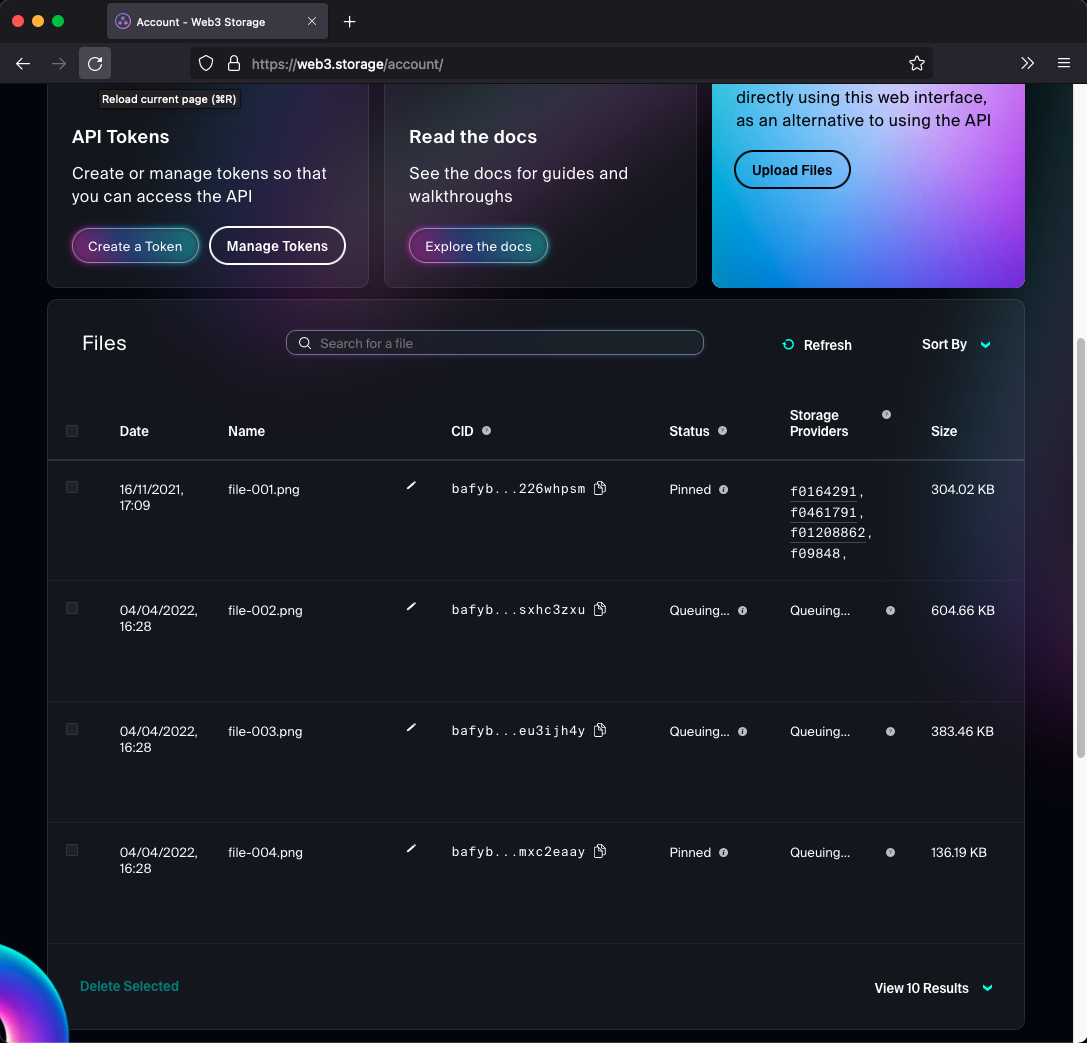
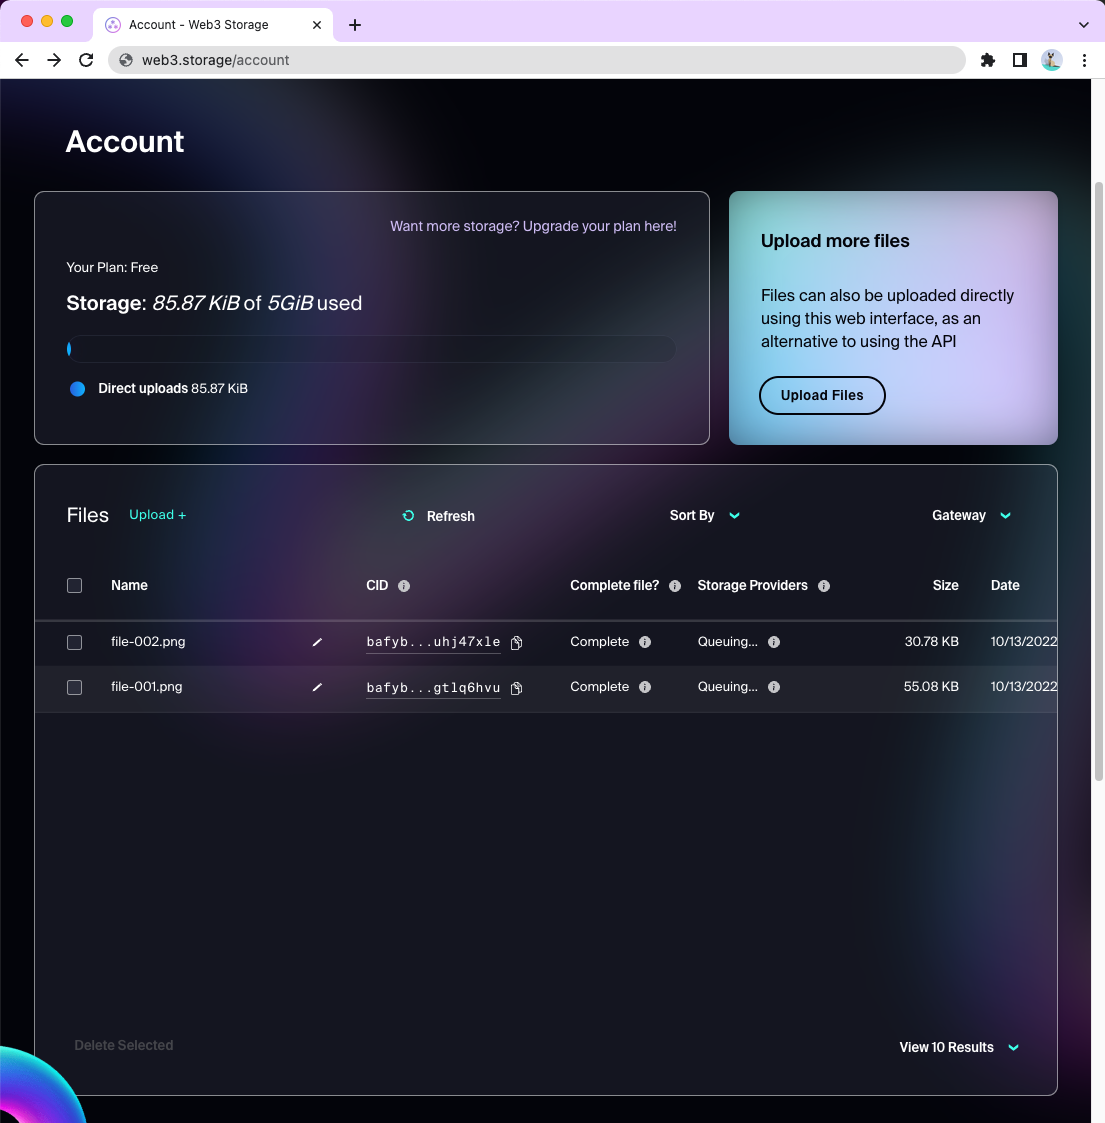
feat: status docs (#1937)

diff --git a/packages/website/pages/docs/how-tos/get-status.md b/packages/website/pages/docs/how-tos/get-status.md
@@ -13,35 +13,29 @@ On the [Account page](https://web3.storage/account) of the web3.storage site, yo
 
 <Img src={ImgPageFiles} alt="Screenshot of web3.storage account page, showing a table of uploaded files" />
 
-The table on the account page has two columns related to the current status of the data storage process, [Status](#status) and [Storage Providers](#storage-providers).
+The table on the account page has two columns related to the current status of the data storage process, [Complete file?](#complete) and [Storage Providers](#storage-providers).
 
 The information in the account page file list is also available using the [JavaScript client's `status` method][client-js-check], via the [HTTP API][client-http] by sending a `GET` request to the `/status/{cid}` endpoint, or using the `w3 status <cid>` command on the [CLI](https://github.com/web3-storage/web3.storage/tree/main/packages/w3#readme).
 
-## Status
+## Complete file?
 
-When you upload data to web3.storage, it is ["pinned"][ipfs-docs-pinning] to several nodes in an [IPFS cluster][ipfs-cluster]. An IPFS cluster is a group of machines that coordinate to provide content-addressed data to the [IPFS](https://ipfs.io) peer-to-peer network.
+When you upload data to Web3.Storage, there might be some situations when an upload did not successfully complete. If you intended to upload a file, the **Complete file?** column shows whether we received a complete graph of data. There are four possible values for the column: `Complete`, `Queuing`, `Pinned`, and `Failed`.
 
-The **Status** column shows the status of the pinning operation. There are three possible values for the Status column: `Queuing`, `Pinned`, and `Failed`.
+A `Complete` status means that we have received a complete graph of data.
 
-The `Queuing` status indicates that a request to pin the data has been submitted to a cluster node, and the node has added the request to a queue for pinning. Depending on how busy the cluster is, an upload may stay in the `Queuing` state for some time before transitioning to `Pinned` or `Failed`.
+A `Pinned` status is a legacy status from our previous architecture. It is equivalent to the `Complete` status.
 
-Note that you can [retrieve your data using IPFS][howto-retrieve] even while the status is `Queuing`. You can verify this by retrieving your data from an HTTP gateway. If you've uploaded a directory, try retrieving a sample of the files within the directory.
+The `Queuing` status indicates that the completeness of the graph of data is still being validated.
 
-A `Pinned` status means that the cluster has successfully pinned the data.
-
-A `Failed` status indicates that an operation failed while attempting to pin the data. Note that a `Failed` status may be temporary, as the cluster will continually retry `Failed` pins in the background and will update the status to `Pinned` if a retry attempt is successful.
-
-In addition to automatic retries by the cluster, a `Failed` pin will change to `Pinned` if the same data is uploaded successfully in a subsequent request. As long as the CID is the same for both uploads, the original upload's status will be marked as `Pinned` after a small delay.
+A `Failed` status indicates that the graph of data is incomplete. For older uploads, it can also mean an operation failed while our infrastructure was attempting to pin the data. A `Failed` pin will change to `Pinned` if the same data is uploaded successfully in a subsequent request. As long as the CID is the same for both uploads, the original upload's status will be marked as `Pinned` after a small delay.
 
 There are several reasons why an upload may end up in the `Failed` state.
 
-If you are able to [retrieve the data from IPFS][howto-retrieve], the cluster is likely waiting to retry a previous attempt and will soon pin the data.
+If you uploaded your data directly to the Web3.Storage service using a [client library][client-js], [the HTTP API][client-http], or the [Upload files button on the website account page][upload-page], a `Failed` status may indicate that one or more chunks of data was not received by the service. This may happen when uploading large files or directories containing many files and may be resolved by retrying the upload.
 
-If you uploaded your data directly to the web3.storage service using a [client library][client-js], [the HTTP API][client-http], or the [Upload files button on the website account page][upload-page], a `Failed` status may indicate that one or more chunks of data was not received by the service. This may happen when uploading large files or directories containing many files and may be resolved by retrying the upload.
+If your data was pinned using the Pinning Service API, a `Failed` status usually means that we weren't't able to fetch the complete content over the IPFS peer-to-peer network. These issues can be hard to diagnose due to the many variables involved, especially when the original source of the data may have an unreliable connection to the network or is behind a firewall. If the data is being provided by another pinning service such as Pinata, or if you've verified that the data is retrievable using IPFS (ideally from multiple distinct locations), please [file an issue][new-issue] so we can look into the cause.
 
-If your data was pinned using the Pinning Service API, a `Failed` status usually means that the cluster wasn't able to fetch the complete content over the IPFS peer-to-peer network. These issues can be hard to diagnose due to the many variables involved, especially when the original source of the data may have an unreliable connection to the network or is behind a firewall. If the data is being provided by another pinning service such as Pinata, or if you've verified that the data is retrievable using IPFS (ideally from multiple distinct locations), please [file an issue][new-issue] so we can look into the cause.
-
-Please note that the status reported by the web3.storage service may not always be in sync with the actual status as reported by the IPFS cluster. The web3.storage service checks if `Failed` pins have been found and pinned by the cluster once per week for up to one month after the initial upload.
+Please note that this column validates that the data received is a complete graph of data. For specific use cases, you might might be intentionally not be sending a complete graph of data (e.g., diffing). If this is the case, you can ignore this column.
 
 If you find that your file is retrievable but the pin status still says `Failed`, please [file an issue][new-issue] with the relevant CIDs and we'll take a look.
 
